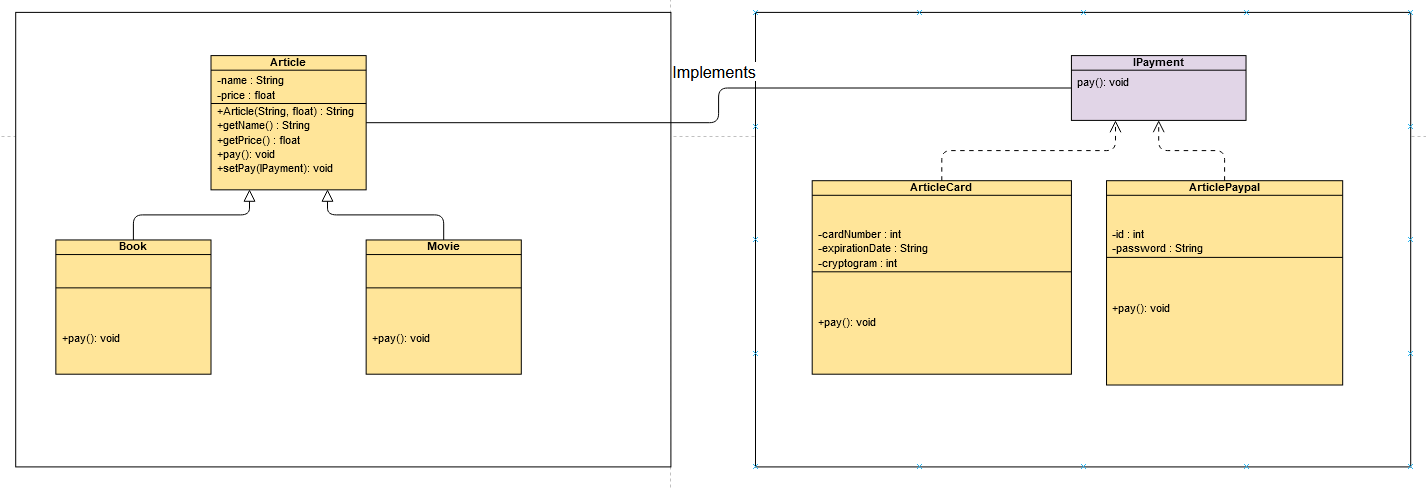
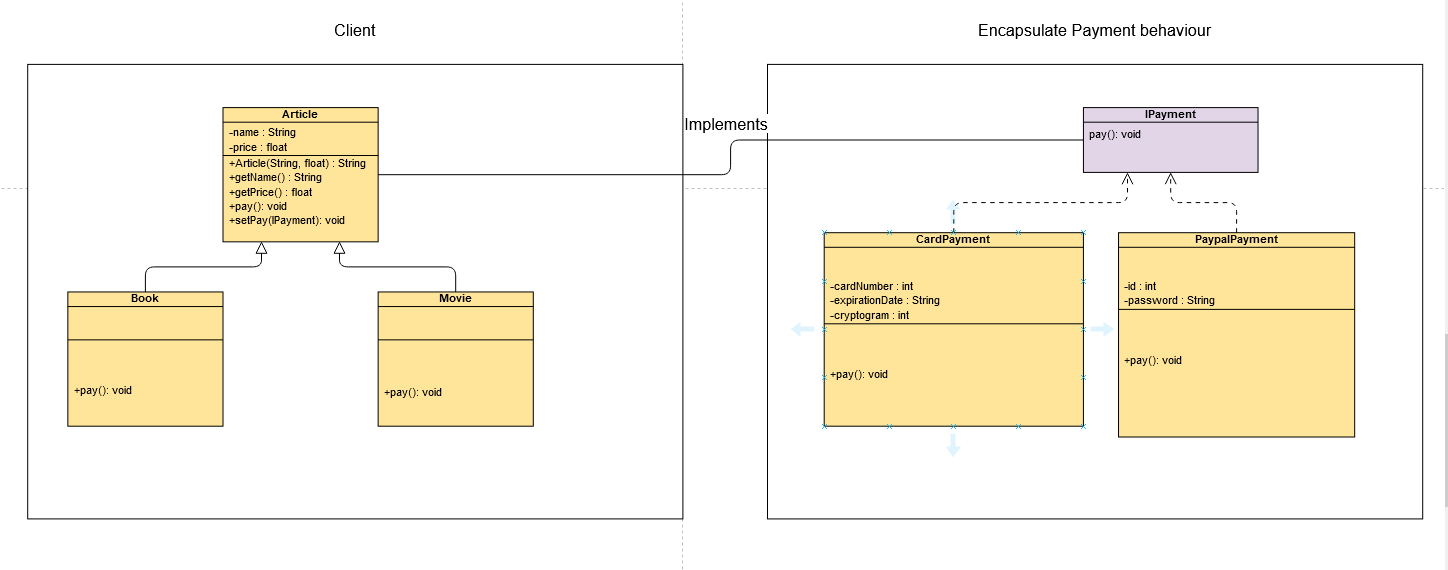
Strategy pattern impl

diff --git a/content/blog/strategy-pattern/index.md b/content/blog/strategy-pattern/index.md
@@ -65,12 +65,188 @@ As explained, the implementation would work, the issue here is you would have to
 What was the principle of the strategy pattern ?  
 "Defines a family of algorithms, encapsulate each one, and make them interchangeable."  
 
+
 ![Using the pattern strategy](./goodImpl_diagram.png)
 
+The interface IPayment and it implementation are thought as a family of algorithms.  
+The client (Article and inherited classes) makes use of this family of algorithms.  
 
+The idea here is using composition instead of inheriting the "behaviour" payment because it ultimately gives more flexibility to your system.  
+
+
+Let's see what would the implementation (in Java) looks like:  
+
+__IPayment__:  
+```java
+public interface IPayment {
+   void pay(float price);
+}
+
+```
+Simple interface with a pay method. We will use it to define a family of algorithms.
+
+__CardPayment__:
+```java
+public class CardPayment implements IPayment {
+
+   private String cardNumber;
+   private String cryptogram;
+   private String expirationDate;
+
+   public CardPayment(String cardNumber, String cryptogram, String expirationDate) {
+      this.cardNumber = cardNumber;
+      this.cryptogram = cryptogram;
+      this.expirationDate = expirationDate;
+   }
+
+   @Override
+   public void pay(float price) {
+      System.out.println("Currently paying with a credit card: "+ price  + " $");
+   }
+
+}
+
+```
+This class implements the IPayment interface, and has all the specificities related to its specific behaviour (cardNumber, cryptogram, expirationDate). 
+
+__PaypalPayment__
+```java
+public class PaypalPayment implements IPayment {
+
+   private String id;
+   private String password;
+
+   public PaypalPayment(String id, String password) {
+      this.id = id;
+      this.password = password;
+
+   }
+
+   @Override
+   public void pay(float price) {
+      System.out.println("Currently paying with Paypal: " + price + " $");
+   }
+
+}
+
+```
+
+This class implements the IPayment interface, and has all the specificities related to its specific behaviour (id and password).
+
+As you can see, we took what would change in our system (the payment method) and encapsulated it. Now, it's going to be easier to chose the payment method we want, but first let's see how is implemented the Article class.
+
+**Article**:
+```java
+public class Article {
+
+   private String name;
+   private float price;
+   IPayment paymentBehaviour;
+
+   public Article(String name, float price) {
+      this.name = name;
+      this.price = price;
+   }
+
+   public String getName() {
+      return this.name;
+   }
+
+   public float getPrice() {
+      return this.price;
+   }
+
+   public float setPaymentBehaviour(IPayment payment) {
+      paymentBehaviour = payment;
+   }
+
+
+   public void performPayment() {
+      float price = this.getPrice();
+      paymentBehaviour.pay(price); /* This is called delegation. It allows you to not precise there the method that would actually do the payment  */
+   }
+
+}
+
+```
+
+
+**Book**:
+```java
+public class Book extends Article {
+
+    public Book(String name, float price) {
+        super(name, price);
+        paymentBehaviour = new CardPayment("12345678978975", "000", "01/01");
+    }
+
+}
+
+```
+This is in the Book class that the payment behaviour is described (here it's the CardPayment method). This is powerfull, the paymentBehaviour is set in the class but the card payment behaviour is not currently set there, it lives somewhere else. Thus, you just need to implement as many new payment methods as you like and call them where you need too.
+
+
+**Movie**:
 
 ```java
-Fly fly = new Fly();
+public class Movie extends Article {
+
+    public Movie(String name, float price) {
+        super(name, price);
+        paymentBehaviour = new PaypalPayment("85211", "pass");
+    }
+
+}
+
+```
+If we wouldn't have used the strategy pattern and we would have wanted to pay with a card here too, we would have had to duplicate code or inherit it. Then we may have passed unnecessarily this method to childs classes that we should then override ... and so. You probably now have the feeling that this would be very complicated when things may have been designed well from the begining.  
+
+You probably wonder what is the method:  
+
+```java
+public float setPaymentBehaviour(IPayment payment) {
+   paymentBehaviour = payment;
+}
+
+```
+
+It actually allows you to set dynamically at the runtime a payment method.  
+Finally, we have the following program running:
+
+**Main**:
+```java
+public class Main {
+   public static void main(String[] args) {
+
+      Book book = new Book("Book", 35);
+      Movie movie = new Movie("Movie", 9);
+
+      System.out.println("I'm buying a: " + book.getName());
+      book.performPayment();
+
+      System.out.println("I'm buying a: " + movie.getName());
+      movie.performPayment();
+
+      book.setPaymentBehaviour(new PaypalPayment("85211", "pass"));
+      System.out.println("I changed the payment method for buying a: " + book.getName());
+      book.performPayment();
+   }
+
+}
+
+```
+
+Giving the following output:
+```
+I'm buying a: Book
+Currently paying with a card: 35.0 $
+
+I'm buying a: Movie
+Currently paying with Paypal: 9.0 $
+
+I changed the payment method for buying a: Book
+Currently paying with Paypal: 35.0 $
+
 ```
 
 ## To conclude - The key takeaways
